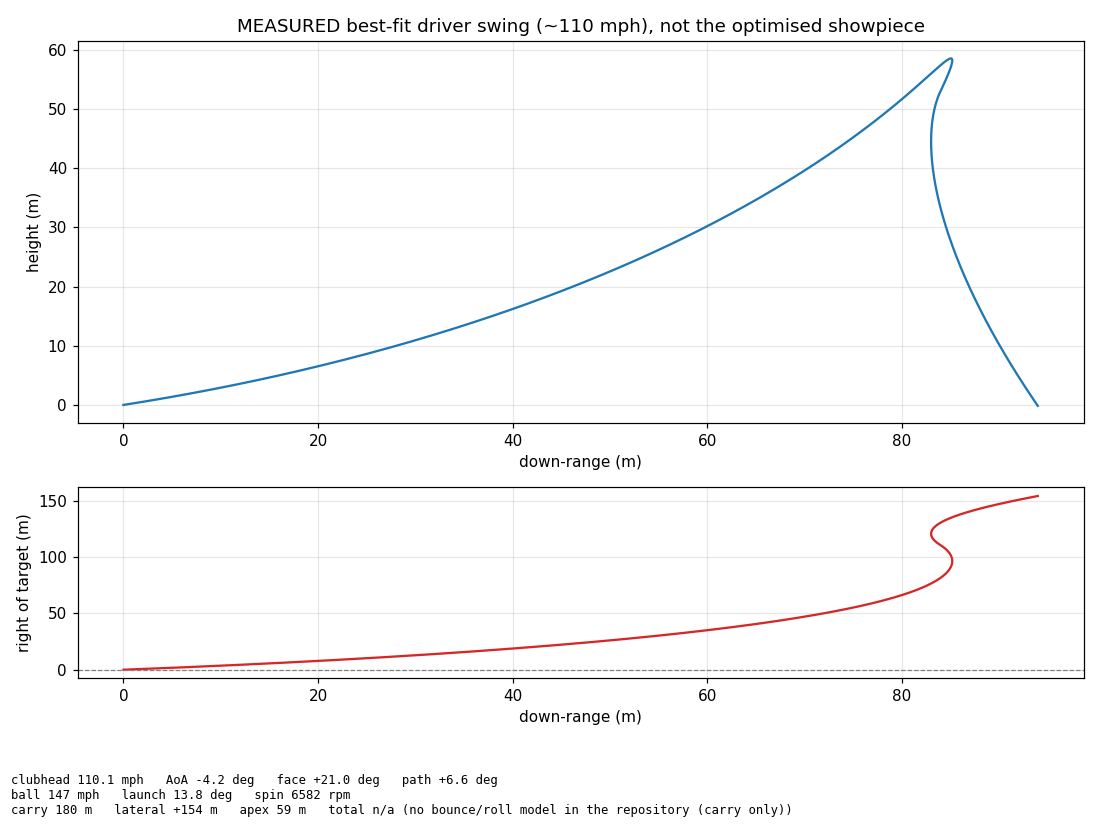
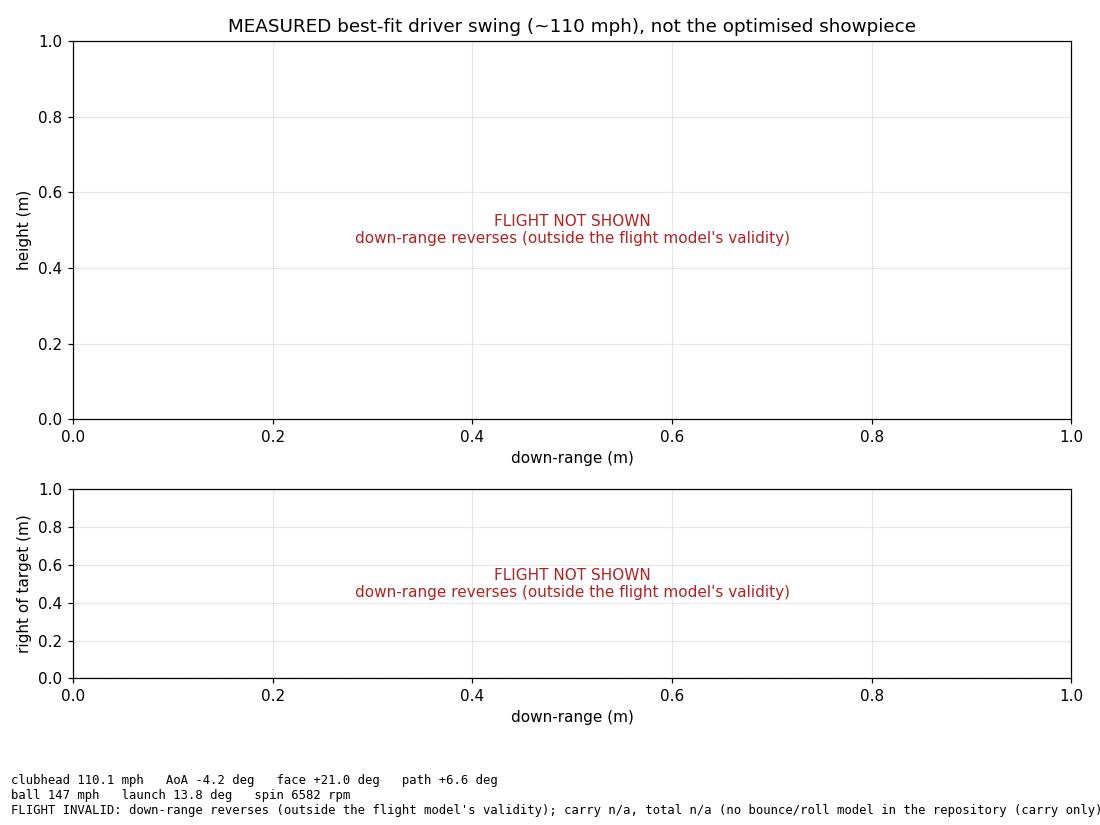
feat(c7): validity guard on the flight; invalid flight is flagged, not drawn (#14563)

diff --git a/src/shared/python/impact_parameters/flight_report.py b/src/shared/python/impact_parameters/flight_report.py
@@ -8,6 +8,10 @@ z up, which is :meth:`TargetFrame.components` of the UD world frame.
 Only carry is computed: the repository has no bounce/roll model, so ``total``
 is reported unavailable with the reason, never invented.  The ``lateral_m``
 sign is + = golfer's right of the target line (an open face goes right).
+The clubhead angular velocity is passed as zero (the series carries none), so
+gear-effect spin is not modelled.  A flight outside the simulator's validity
+(no spin decay: extreme sidespin turns the ball past 90 degrees) is flagged
+``valid=False`` and never presented as a result.
 """
 
 from __future__ import annotations
@@ -42,9 +46,26 @@ class FlightSummary:
     ball_speed_mph: float
     launch_deg: float
     spin_rpm: float
+    down_range_m: float
     trajectory_m: np.ndarray  # (n, 3) down-range, left, up
     total_m: float | None = None
     total_unavailable: str = TOTAL_UNAVAILABLE
+    valid: bool = True
+    invalid_reason: str = ""
+
+
+def _invalid_reason(path: np.ndarray) -> str:
+    """Why the flight is outside the model's validity ('' when valid).
+
+    The default simulator has no spin decay, so an extreme sidespin turns the
+    ball through more than 90 degrees; down-range then reverses.  That is a
+    model artefact, not a result, and is flagged instead of presented.
+    """
+    if float(np.min(np.diff(path[:, 0]))) < -1e-6:
+        return "down-range reverses (outside the flight model's validity)"
+    if math.hypot(path[-1, 0], path[-1, 1]) < 1e-6 or path[-1, 0] <= 0.0:
+        return "ball lands 90 deg or more off the target line"
+    return ""
 
 
 def swing_state_from_series(
@@ -80,6 +101,7 @@ def flight_for_impact(
     )
     path = np.array([p.position for p in result.trajectory], dtype=float)
     launch = result.launch_conditions
+    reason = _invalid_reason(path)
     summary = FlightSummary(
         carry_m=float(result.carry_m),
         lateral_m=-float(path[-1, 1]),
@@ -88,7 +110,10 @@ def flight_for_impact(
         ball_speed_mph=float(launch.velocity) * _MPS_TO_MPH,
         launch_deg=math.degrees(launch.launch_angle),
         spin_rpm=float(launch.spin_rate),
+        down_range_m=float(path[-1, 0]),
         trajectory_m=path,
+        valid=not reason,
+        invalid_reason=reason,
     )
     ensure(math.isfinite(summary.carry_m), "carry must be finite", summary.carry_m)
     return summary
@@ -107,12 +132,19 @@ def overlay_lines(
         if flight.total_m is not None
         else f"n/a ({flight.total_unavailable})"
     )
+    if not flight.valid:
+        carry = f"FLIGHT INVALID: {flight.invalid_reason}; carry n/a, total {total}"
+    else:
+        carry = (
+            f"carry {flight.carry_m:.0f} m (down-range {flight.down_range_m:.0f} m)"
+            f"   lateral {flight.lateral_m:+.0f} m   apex {flight.max_height_m:.0f} m"
+            f"   total {total}"
+        )
     return [
         title,
         f"clubhead {conditions.speed_mph:.1f} mph   AoA {conditions.aoa_deg:+.1f} deg"
         f"   face {_fmt(conditions.face_deg)}   path {_fmt(conditions.path_deg)}",
         f"ball {flight.ball_speed_mph:.0f} mph   launch {flight.launch_deg:.1f} deg"
         f"   spin {flight.spin_rpm:.0f} rpm",
-        f"carry {flight.carry_m:.0f} m   lateral {flight.lateral_m:+.0f} m"
-        f"   apex {flight.max_height_m:.0f} m   total {total}",
+        carry,
     ]

diff --git a/docs/development/full_body_models/evidence/showpiece_render/c7/render_measured_swing.py b/docs/development/full_body_models/evidence/showpiece_render/c7/render_measured_swing.py
@@ -71,9 +71,21 @@ def render(out_dir: Path, seeds: Path = SEEDS) -> dict[str, float]:
 
     path = flight.trajectory_m  # down-range, left, up
     fig, (side, top) = plt.subplots(2, 1, figsize=(10, 7.5), height_ratios=[2, 1])
-    side.plot(path[:, 0], path[:, 2], color="tab:blue")
+    if flight.valid:
+        side.plot(path[:, 0], path[:, 2], color="tab:blue")
+        top.plot(path[:, 0], -path[:, 1], color="tab:red")
+    else:  # outside the flight model's validity: say so, draw no flight
+        for ax in (side, top):
+            ax.text(
+                0.5,
+                0.5,
+                "FLIGHT NOT SHOWN\n" + flight.invalid_reason,
+                ha="center",
+                va="center",
+                color="firebrick",
+                transform=ax.transAxes,
+            )
     side.set(xlabel="down-range (m)", ylabel="height (m)", title=TITLE)
-    top.plot(path[:, 0], -path[:, 1], color="tab:red")
     top.axhline(0.0, color="grey", lw=0.8, ls="--")
     top.set(xlabel="down-range (m)", ylabel="right of target (m)")
     for ax in (side, top):
@@ -90,6 +102,7 @@ def render(out_dir: Path, seeds: Path = SEEDS) -> dict[str, float]:
         "face_deg": cond.face_deg,
         "path_deg": cond.path_deg,
         "aoa_deg": cond.aoa_deg,
+        "flight_valid": flight.valid,
         "carry_m": flight.carry_m,
         "lateral_m": flight.lateral_m,
         "ball_speed_mph": flight.ball_speed_mph,
